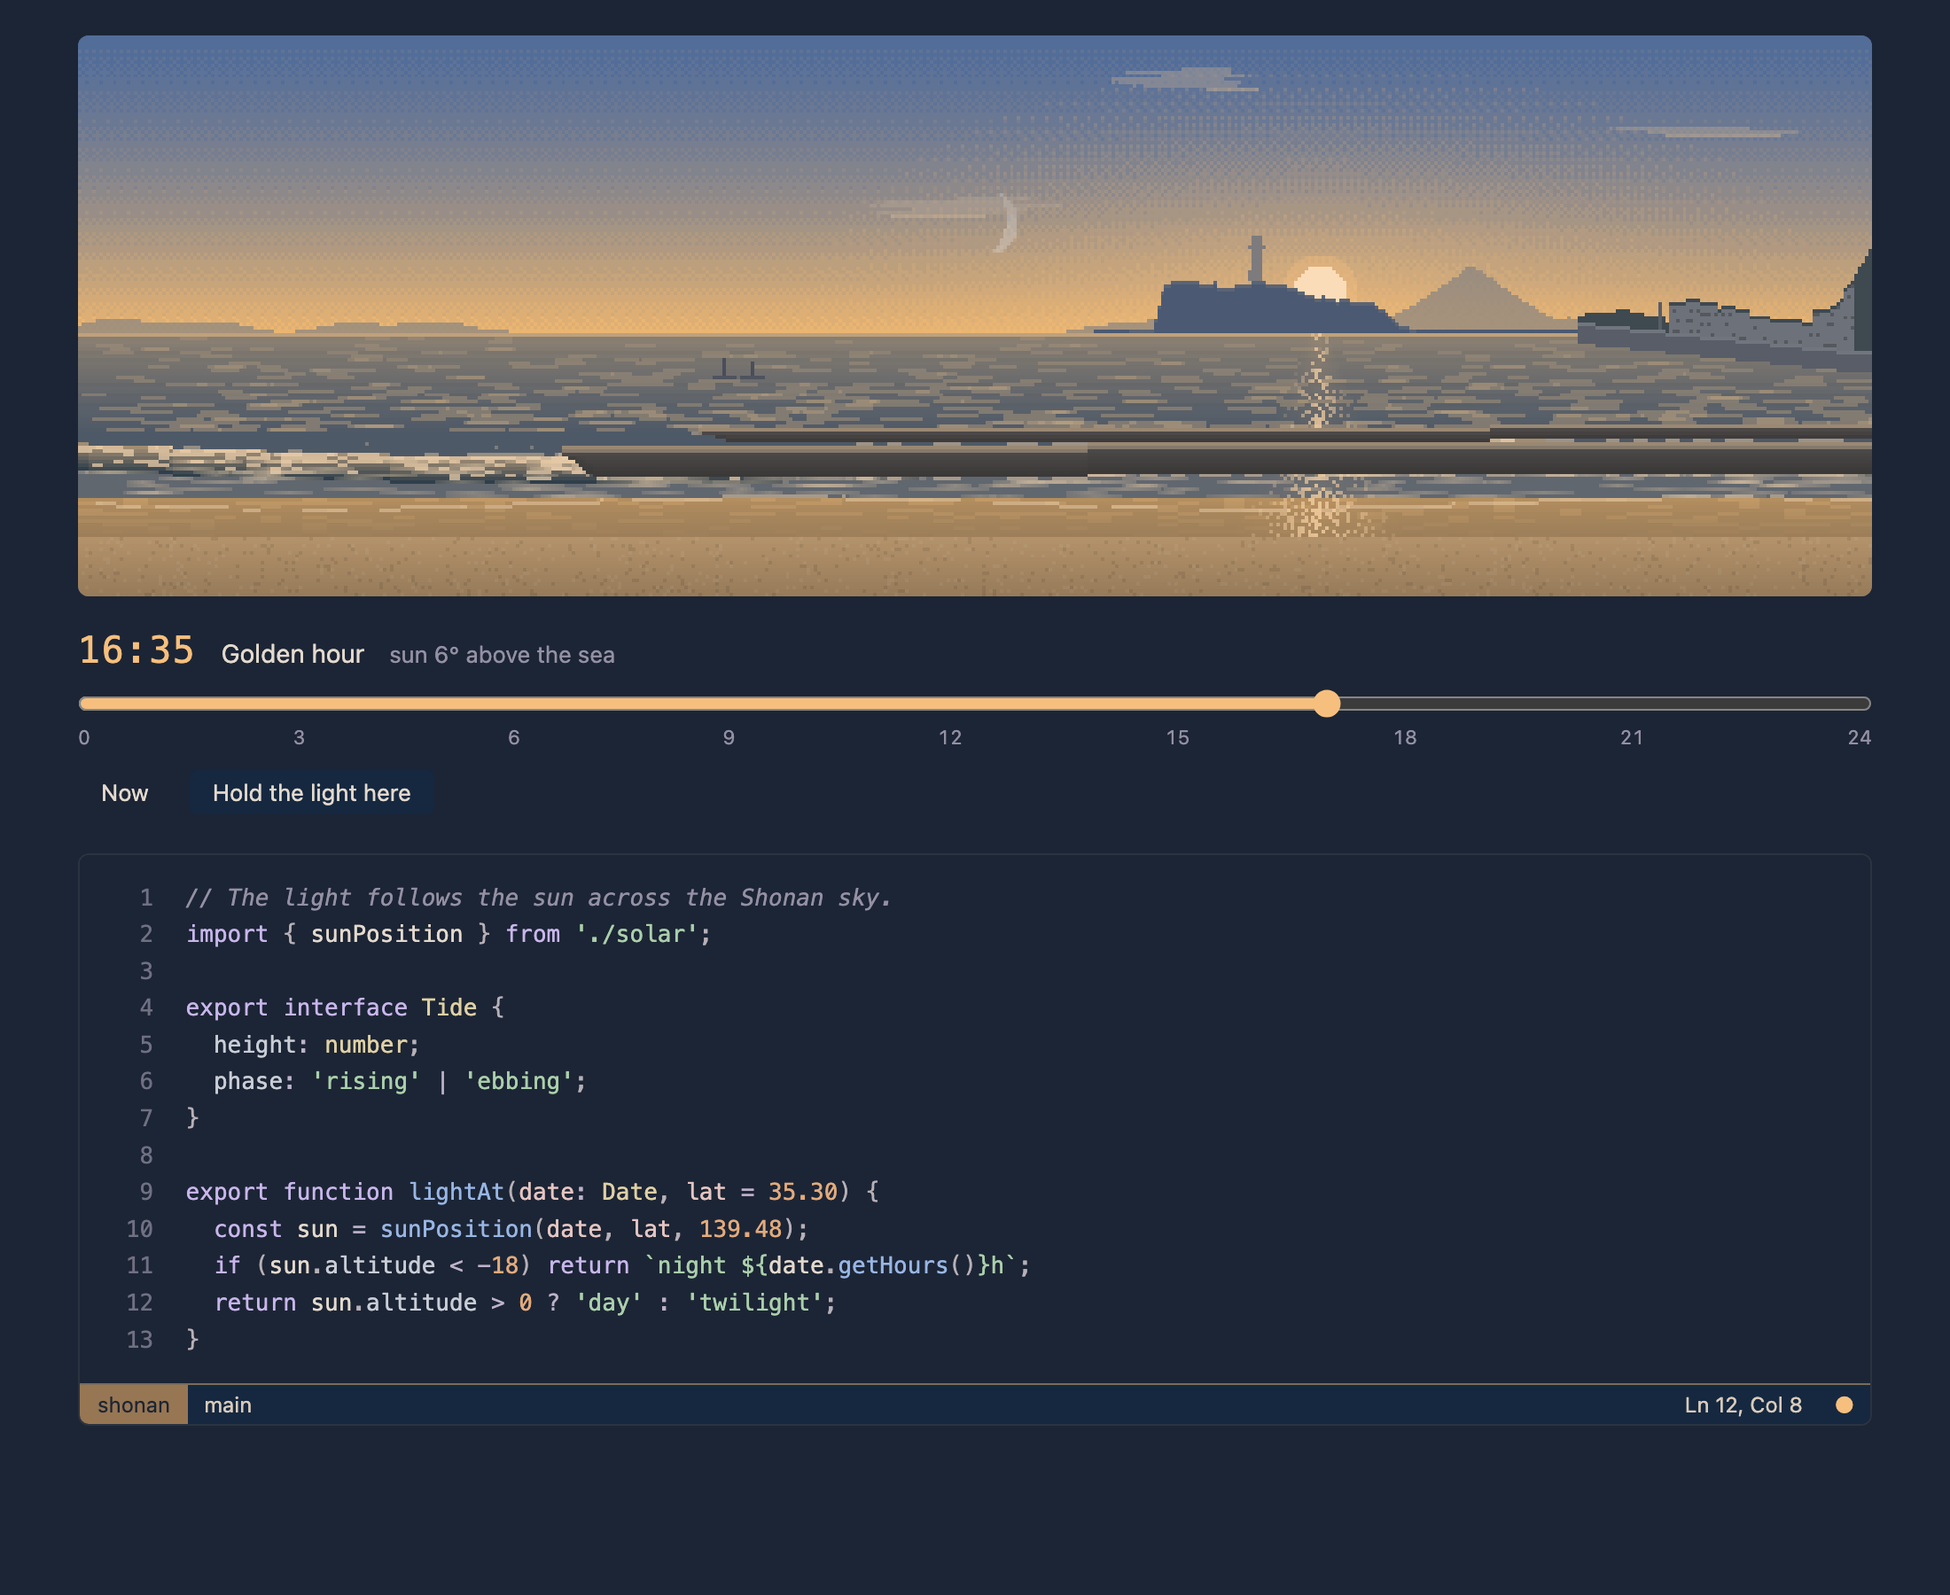
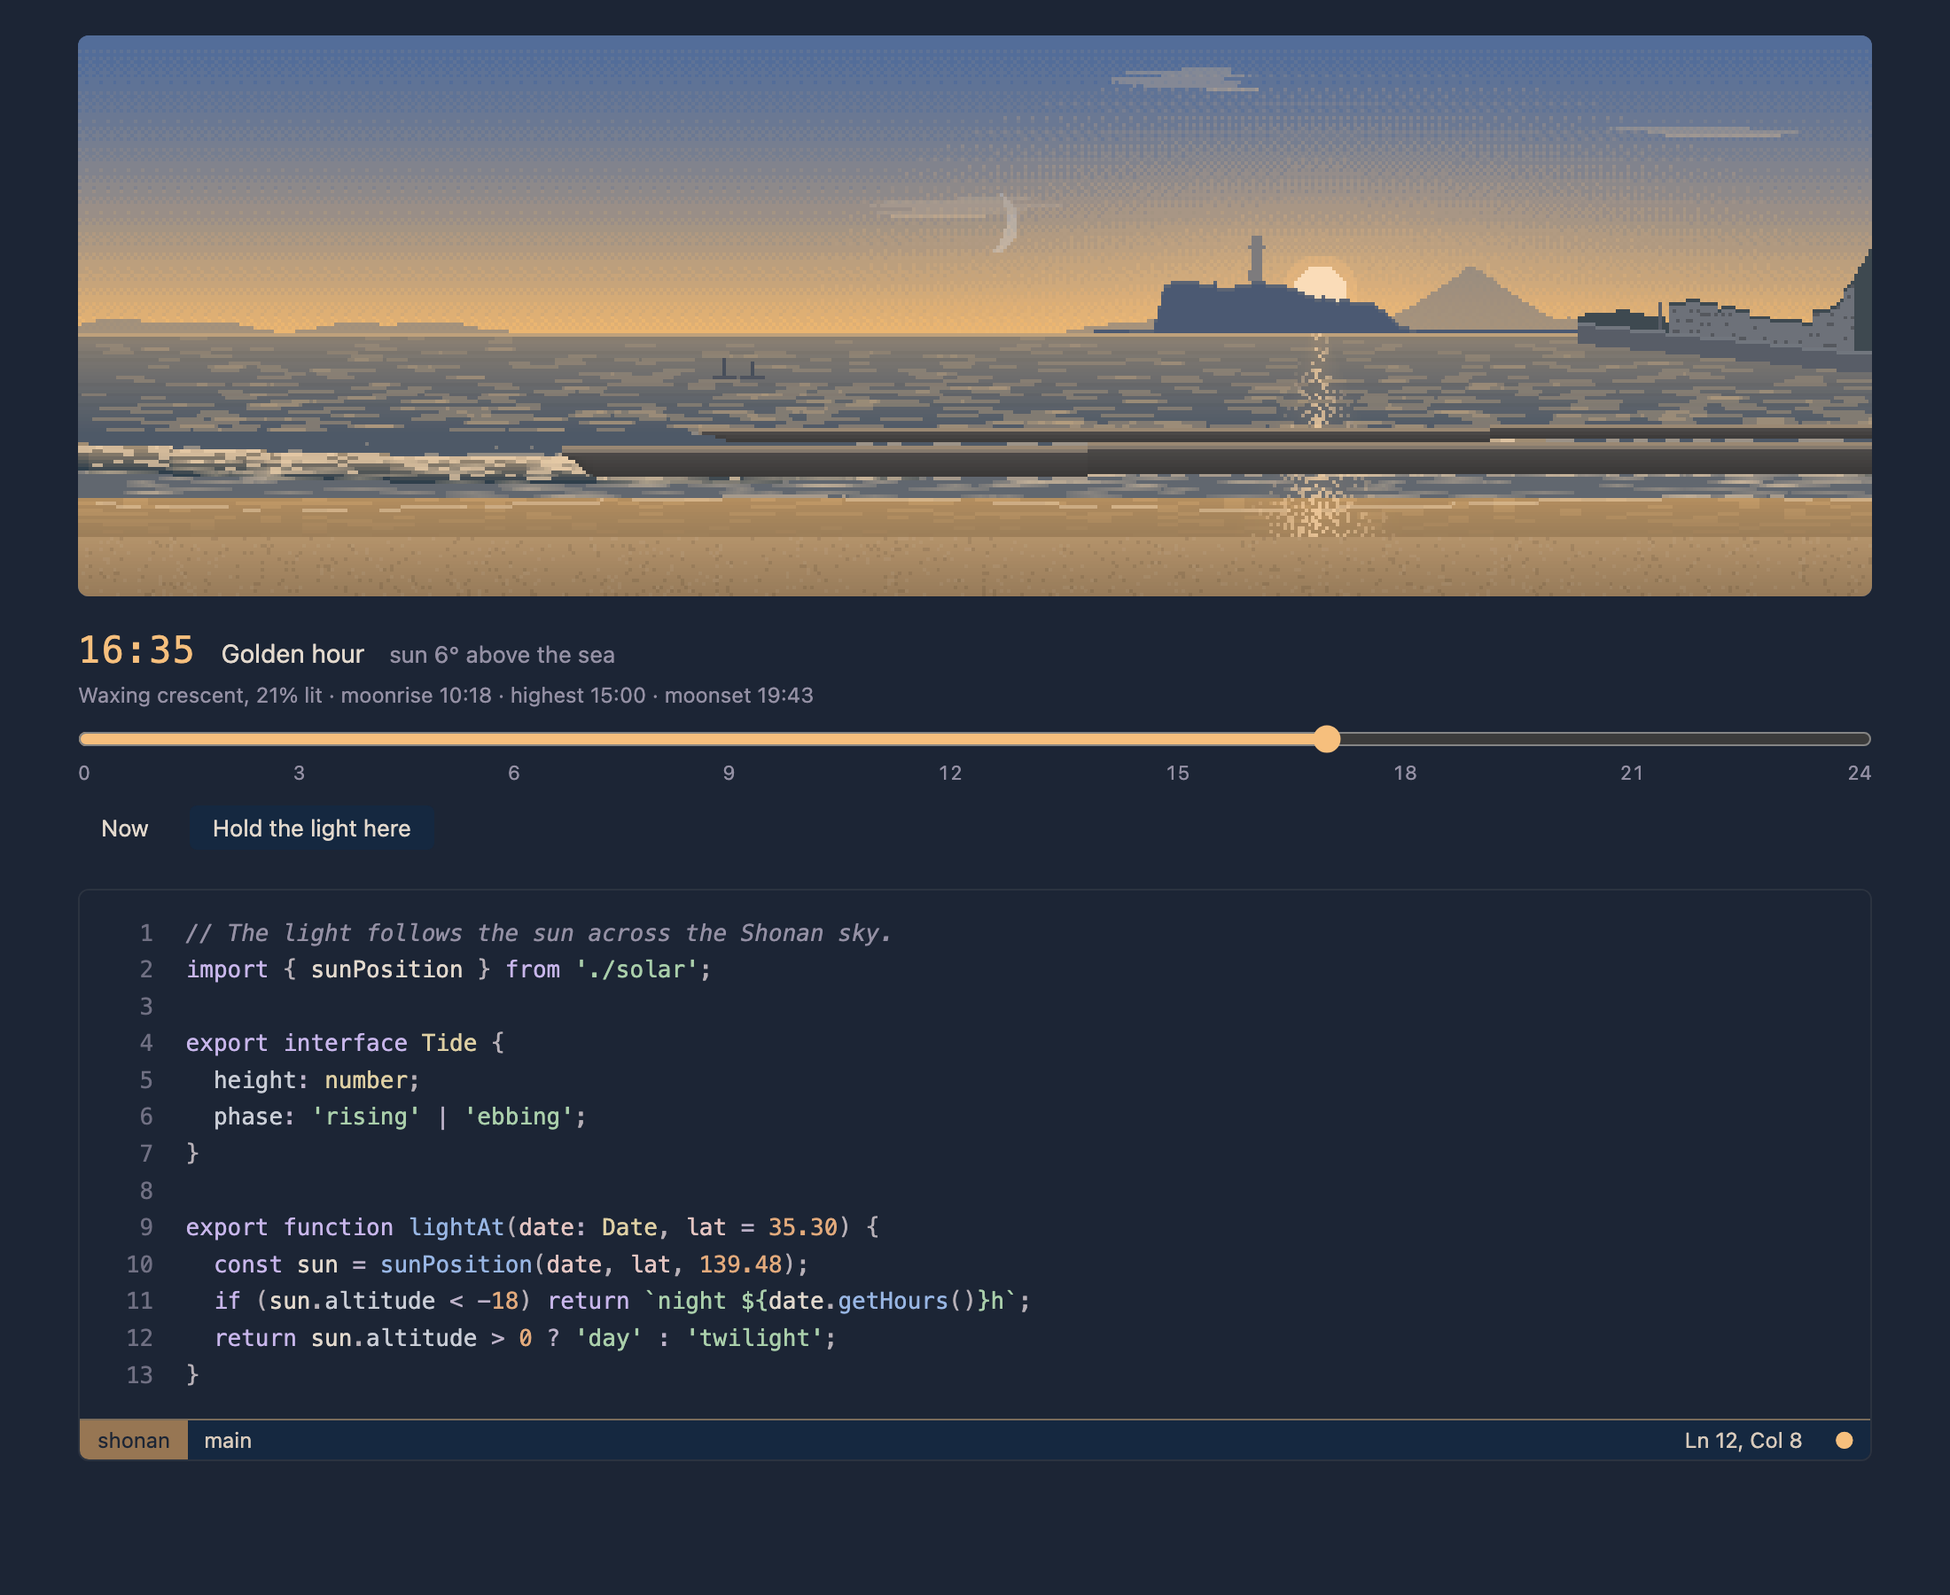
Release 0.6.0: the moon keeps its real hours for each phase
Today's moon is listed in the Shoreline tab and the light dot's tooltip:
phase, how much is lit, and when it rises, is highest (due south) and
sets. These come from the lunar theory, so they follow the phase: a new
moon is highest around noon, a first quarter in the evening, a full moon
around midnight, a last quarter at dawn, about 50 minutes later each day.
New tests check the transit time for each phase across a lunation and the
daily delay.

diff --git a/src/engine/solar.ts b/src/engine/solar.ts
@@ -181,6 +181,70 @@ export function moonPosition(ms: number, latitude: number, longitude: number): M
   };
 }
 
+/** Apparent altitude of the moon's center when its upper limb touches the horizon. */
+const MOON_HORIZON = -0.26;
+
+/**
+ * Moonrise, the moon's highest point (meridian transit) and moonset within
+ * [startMs, startMs + 24h). They come about 50 minutes later each day, so on
+ * some days one of them falls outside the window and is null.
+ */
+export function moonEvents(
+  startMs: number,
+  latitude: number,
+  longitude: number,
+): { rise: number | null; transit: number | null; set: number | null } {
+  const step = 10 * 60_000;
+  const alt = (t: number) => moonPosition(t, latitude, longitude).altitude;
+  const f = (t: number) => alt(t) - MOON_HORIZON;
+  let rise: number | null = null;
+  let set: number | null = null;
+  let best = -Infinity;
+  let bestT = startMs;
+  let prevT = startMs;
+  let prev = f(prevT);
+  for (let t = startMs; t <= startMs + DAY_MS; t += step) {
+    const cur = f(t);
+    if (cur > best) {
+      best = cur;
+      bestT = t;
+    }
+    if (t > startMs) {
+      if (prev < 0 && cur >= 0 && rise === null) rise = bisect(f, prevT, t);
+      if (prev >= 0 && cur < 0 && set === null) set = bisect(f, prevT, t);
+    }
+    prevT = t;
+    prev = cur;
+  }
+  // The highest point is a transit only if the moon was still climbing before
+  // it and sinking after it inside the window; refine it to the minute.
+  let transit: number | null = null;
+  if (bestT > startMs && bestT < startMs + DAY_MS) {
+    let a = bestT - step;
+    let b = bestT + step;
+    for (let i = 0; i < 30; i++) {
+      const m1 = a + (b - a) / 3;
+      const m2 = b - (b - a) / 3;
+      if (alt(m1) < alt(m2)) a = m1;
+      else b = m2;
+    }
+    transit = (a + b) / 2;
+  }
+  return { rise, transit, set };
+}
+
+export function moonPhaseName(phase: number): string {
+  const p = ((phase % 1) + 1) % 1;
+  if (p < 0.03 || p > 0.97) return 'New moon';
+  if (p < 0.22) return 'Waxing crescent';
+  if (p < 0.28) return 'First quarter';
+  if (p < 0.47) return 'Waxing gibbous';
+  if (p < 0.53) return 'Full moon';
+  if (p < 0.72) return 'Waning gibbous';
+  if (p < 0.78) return 'Last quarter';
+  return 'Waning crescent';
+}
+
 /**
  * Sunrise, solar noon and sunset within [startMs, startMs + 24h), found by
  * scanning and bisection. Either event can be null (polar day or night).

diff --git a/src/engine/sky.ts b/src/engine/sky.ts
@@ -17,6 +17,8 @@ import {
   MoonPosition,
   dailyExtremes,
   horizontal,
+  moonEvents,
+  moonPhaseName,
   moonPosition,
   siderealTime,
   sunEvents,
@@ -58,6 +60,8 @@ export interface Sky {
   moon: MoonPosition;
   /** The instant actually evaluated, after the time-zone mapping. */
   sceneTime: number;
+  /** The instant used for the moon and stars (sceneTime, plus the manual-sun offset). */
+  skyTime: number;
   /** 1..366, for seasonal tints. */
   dayOfYear: number;
   /** Local sidereal time in degrees, for turning the stars. */
@@ -119,6 +123,7 @@ export function skyAt(now: Date, opts: SkyOptions = DEFAULT_SKY): Sky {
     sun,
     moon,
     sceneTime,
+    skyTime,
     dayOfYear: dayOfYear(sceneTime),
     siderealTime: siderealTime(skyTime, opts.longitude),
     latitude: opts.latitude,
@@ -197,6 +202,39 @@ export function todaysSunTimes(
   const ev = sunEvents(midnight.getTime() + shift, opts.latitude, opts.longitude);
   const back = (t: number | null) => (t === null ? null : new Date(t - shift));
   return { sunrise: back(ev.sunrise), sunset: back(ev.sunset) };
+}
+
+export interface MoonDay {
+  name: string;
+  /** Illuminated fraction now, 0..1. */
+  illumination: number;
+  rise: Date | null;
+  /** When the moon is highest, due south. */
+  transit: Date | null;
+  set: Date | null;
+}
+
+/**
+ * Today's moon on the user's clock: its phase, and when it rises, crosses the
+ * meridian and sets. These follow the phase: a new moon is highest around
+ * noon, a first quarter in the evening, a full moon around midnight, a last
+ * quarter in the morning.
+ */
+export function todaysMoon(now: Date, opts: SkyOptions): MoonDay {
+  const midnight = new Date(now);
+  midnight.setHours(0, 0, 0, 0);
+  const noon = new Date(midnight.getTime() + 12 * 3_600_000);
+  const offset = skyAt(noon, opts).skyTime - noon.getTime();
+  const ev = moonEvents(midnight.getTime() + offset, opts.latitude, opts.longitude);
+  const back = (t: number | null) => (t === null ? null : new Date(t - offset));
+  const moon = skyAt(now, opts).moon;
+  return {
+    name: moonPhaseName(moon.phase),
+    illumination: moon.illumination,
+    rise: back(ev.rise),
+    transit: back(ev.transit),
+    set: back(ev.set),
+  };
 }
 
 /** "05:47" → 347. Empty or invalid → null. */

diff --git a/test/engine.test.ts b/test/engine.test.ts
@@ -12,6 +12,7 @@ import {
   fromHex,
   lch,
   minContrast,
+  moonEvents,
   skyAt,
   staticAtmosphere,
   sunPosition,
@@ -119,6 +120,24 @@ describe('moon', () => {
     assert.ok(setting.azimuth > 260 && setting.azimuth < 300 && setting.altitude < 20);
     const sun = skyAt(new Date('2026-10-26T14:40:00Z'), SHONAN_REAL).sun;
     assert.ok(sun.altitude < -50, 'the full moon and the sun do not share the sky');
+  });
+
+  it('is highest at a time set by its phase, about 50 minutes later each day', () => {
+    const transitJst = (day: string) => {
+      const t = moonEvents(JST(`${day}T00:00:00`).getTime(), SHONAN_REAL.latitude, SHONAN_REAL.longitude).transit;
+      assert.ok(t !== null, `transit on ${day}`);
+      return ((t! - JST(`${day}T00:00:00`).getTime()) / 3_600_000 + 24) % 24; // hours after midnight JST
+    };
+    const near = (h: number, target: number, tol: number) => Math.abs(((h - target + 36) % 24) - 12) <= tol;
+    assert.ok(near(transitJst('2026-10-10'), 11.5, 1.5), 'new moon: around noon');
+    assert.ok(near(transitJst('2026-10-18'), 17.8, 1.5), 'first quarter: early evening');
+    assert.ok(near(transitJst('2026-10-26'), 23.8, 1.5), 'full moon: around midnight');
+    assert.ok(near(transitJst('2026-11-02'), 5.9, 1.5), 'last quarter: early morning');
+    const delays: number[] = [];
+    for (let d = 11; d < 17; d++) {
+      delays.push((transitJst(`2026-10-${d + 1}`) - transitJst(`2026-10-${d}`)) * 60);
+    }
+    for (const m of delays) assert.ok(m > 35 && m < 70, `daily delay ${m.toFixed(0)} min`);
   });
 
   it('turns its lit side toward the sun', () => {

diff --git a/scripts/render-previews.ts b/scripts/render-previews.ts
@@ -15,6 +15,7 @@ import * as path from 'path';
 import { DEFAULT_ATMOSPHERE, DEFAULT_SKY, SkyOptions } from '../src/engine';
 import { SceneFrame, dayFrames, frameAt } from '../src/frame';
 import { buildTheme } from '../src/theme/mapper';
+import { moonLine } from '../src/moonLine';
 import { computeAtmosphere, skyAt } from '../src/engine';
 
 const root = path.resolve(__dirname, '..', '..');
@@ -240,6 +241,7 @@ body { font: 13px -apple-system, BlinkMacSystemFont, sans-serif; }
   <div class="scene-wrap"><canvas id="scene"></canvas></div>
   <section class="timeline">
     <div class="readout"><span id="clock" class="clock"></span><span id="phase" class="phase"></span><span id="sun" class="sun"></span></div>
+    <div id="moon" class="moonline">${moonLine(new Date('2026-10-15T16:35:00+09:00'), SKY)}</div>
     <input id="scrub" type="range" min="0" max="1430" step="10" value="${frame.minutes}">
     <div class="hours"><span>0</span><span>3</span><span>6</span><span>9</span><span>12</span><span>15</span><span>18</span><span>21</span><span>24</span></div>
     <div class="actions"><button id="now" type="button">Now</button><button id="hold" type="button">Hold the light here</button></div>

diff --git a/src/statusIndicator.ts b/src/statusIndicator.ts
@@ -2,7 +2,7 @@ import * as vscode from 'vscode';
 import { Moment } from './controller';
 import { skyOptions } from './config';
 import { clockLabel } from './frame';
-import { todaysSunTimes } from './engine';
+import { todaysMoon, todaysSunTimes } from './engine';
 
 /**
  * One small dot at the far right of the status bar, in the color of the
@@ -38,6 +38,11 @@ export class StatusIndicator implements vscode.Disposable {
     md.isTrusted = { enabledCommands: ['shonanVibes.openShoreline', 'shonanVibes.previewTime', 'shonanVibes.followSun'] };
     md.appendMarkdown(`**Shonan Vibes** · ${frame.phaseName}\n\n`);
     md.appendMarkdown(`${where}  \nSunrise ${fmt(times.sunrise)} · Sunset ${fmt(times.sunset)}\n\n`);
+    const moon = todaysMoon(new Date(), skyOptions(settings));
+    md.appendMarkdown(
+      `${moon.name}, ${Math.round(moon.illumination * 100)}% lit  \n` +
+        `Moonrise ${fmt(moon.rise)} · Highest ${fmt(moon.transit)} · Moonset ${fmt(moon.set)}\n\n`,
+    );
     if (settings.fixedTime !== null) {
       md.appendMarkdown(`Light held at **${frame.clock}** · [Follow the sun](command:shonanVibes.followSun)\n\n`);
     } else if (!settings.dynamicColors) {

diff --git a/src/shoreline.ts b/src/shoreline.ts
@@ -1,6 +1,7 @@
 import * as vscode from 'vscode';
 import { Controller, Moment } from './controller';
-import { SECTION } from './config';
+import { SECTION, skyOptions } from './config';
+import { moonLine } from './moonLine';
 import { clockLabel } from './frame';
 
 type Mode = 'view' | 'panel';
@@ -104,6 +105,7 @@ export class ShorelinePanel {
     void this.panel.webview.postMessage({
       type: 'day',
       frames: this.controller.today(),
+      moon: moonLine(new Date(), skyOptions(m.settings)),
       frame: m.frame,
       held: m.settings.fixedTime !== null,
       motion: m.settings.shorelineMotion,
@@ -175,6 +177,7 @@ const PANEL_BODY = `
       <span id="phase" class="phase"></span>
       <span id="sun" class="sun"></span>
     </div>
+    <div id="moon" class="moonline"></div>
     <input id="scrub" type="range" min="0" max="1430" step="10" aria-label="Preview a time of day">
     <div class="hours" aria-hidden="true"><span>0</span><span>3</span><span>6</span><span>9</span><span>12</span><span>15</span><span>18</span><span>21</span><span>24</span></div>
     <div class="actions">

diff --git a/src/moonLine.ts b/src/moonLine.ts
@@ -1,0 +1,9 @@
+import { SkyOptions, todaysMoon } from './engine';
+import { clockLabel } from './frame';
+
+/** "Waxing crescent, 20% lit · moonrise 10:18 · highest 15:00 · moonset 19:43" */
+export function moonLine(now: Date, opts: SkyOptions): string {
+  const m = todaysMoon(now, opts);
+  const t = (d: Date | null) => (d ? clockLabel(d.getHours() * 60 + d.getMinutes()) : '—');
+  return `${m.name}, ${Math.round(m.illumination * 100)}% lit · moonrise ${t(m.rise)} · highest ${t(m.transit)} · moonset ${t(m.set)}`;
+}

diff --git a/media/shoreline.js b/media/shoreline.js
@@ -775,6 +775,8 @@
     if (msg.type === 'day') {
       day = msg.frames;
       previewing = false;
+      const moonEl = document.getElementById('moon');
+      if (moonEl && msg.moon) moonEl.textContent = msg.moon;
     }
     // Don't yank the view away from an hour the user is previewing.
     if (!previewing) {

diff --git a/media/shoreline.css b/media/shoreline.css
@@ -82,6 +82,12 @@ canvas {
   color: var(--comment);
 }
 
+.moonline {
+  color: var(--comment);
+  font-size: 0.92em;
+  margin: -4px 0 10px;
+}
+
 input[type='range'] {
   width: 100%;
   margin: 0;

diff --git a/README.md b/README.md
@@ -36,7 +36,7 @@ The bottom of the window is treated as the coast:
 
 - **Status bar = the sea.** It takes the ocean's color for the hour. Its top border is a thin horizon line in the color of the light: a faint silver thread at night, brighter at sunrise and sunset. The remote indicator at the far left sits on a strip of sand.
 - **The light dot.** A small dot at the far right of the status bar takes the color of the current light: moon, dawn, sun or sunset. Hover it for the phase, the sun's height, and today's sunrise and sunset. Click it to open the Shoreline.
-- **Shoreline view.** VS Code themes can only set solid colors, so the pixel-art coast lives in its own view (*Shoreline*, in the bottom panel). It is a panorama from the beach at Koshigoe, drawn after a photograph by the author: the low Miura peninsula to the east, the open sea to the south, Enoshima with its cliff and the Sea Candle lighthouse, Fuji just beyond, and the Koshigoe shore with its green harbor light, behind concrete breakwaters. The sun and moon follow the real sky: they rise, cross and set at their true times and bearings. The moon shows its real phase for the day, with its lit side turned toward the sun; by day it is only a faint ghost, and near new moon it cannot be seen. The stars wheel slowly across the sky through the night. It redraws only when the light changes. An optional, very slow shimmer runs only while the view is visible and respects reduced-motion settings.
+- **Shoreline view.** VS Code themes can only set solid colors, so the pixel-art coast lives in its own view (*Shoreline*, in the bottom panel). It is a panorama from the beach at Koshigoe, drawn after a photograph by the author: the low Miura peninsula to the east, the open sea to the south, Enoshima with its cliff and the Sea Candle lighthouse, Fuji just beyond, and the Koshigoe shore with its green harbor light, behind concrete breakwaters. The sun and moon follow the real sky: they rise, cross and set at their true times and bearings. The moon shows its real phase for the day, with its lit side turned toward the sun, and keeps its real hours: a first quarter is highest in the evening, a full moon at midnight, a last quarter at dawn, about 50 minutes later each day. By day it is only a faint ghost, and near new moon it cannot be seen. The Shoreline tab and the light dot's tooltip list today's phase, moonrise, highest point and moonset. The stars wheel slowly across the sky through the night. It redraws only when the light changes. An optional, very slow shimmer runs only while the view is visible and respects reduced-motion settings.
 - **Shoreline tab.** Run **Shonan Vibes: Open Shoreline** to scrub through today and preview any hour on a sample of code. Previewing doesn't touch your editor. **Hold the light here** keeps that hour until you choose **Follow the sun**.
 
 ![The Shoreline tab at golden hour, with the time scrubber and a code preview](media/screenshots/shoreline.png)

diff --git a/CHANGELOG.md b/CHANGELOG.md
@@ -1,5 +1,10 @@
 # Changelog
 
+## 0.6.0
+
+- Today's moon is listed in the Shoreline tab and in the light dot's tooltip: its phase, how much is lit, and when it rises, is highest (due south) and sets. These follow the phase: a new moon is highest around noon, a first quarter in the evening, a full moon around midnight, a last quarter at dawn, about 50 minutes later each day.
+- Tests check the moon's highest point for each phase across a lunation and the daily delay.
+
 ## 0.5.0
 
 - The sun and moon follow the real sky. The Shoreline is now a panorama from east to north-west, so the sun rises over the Miura peninsula, crosses the open sea and sets by Enoshima and Fuji (or over the Koshigoe hills in summer).
